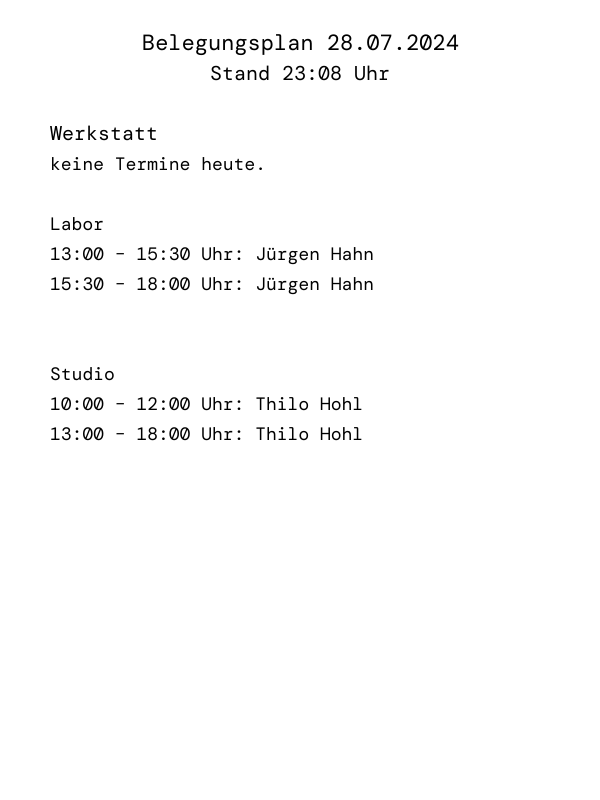
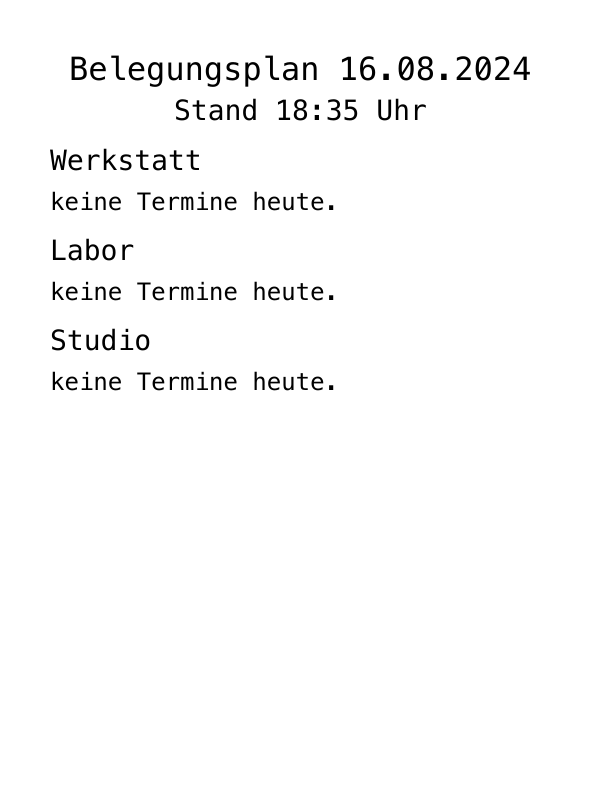
Upcoming (innerhalb 14 Tage), <wbr> Space.

diff --git a/Scripts/calendar-img.js b/Scripts/calendar-img.js
@@ -8,90 +8,98 @@ const { createCanvas, loadImage } = require('canvas');
 /*  Canvas-Setup  */
 /******************/
 
-const width     = 600;
-const height    = 800;
-const canvas    = createCanvas(width, height);
-const ctx       = canvas.getContext('2d');
+const width  = 600;
+const height = 800;
+const canvas = createCanvas(width, height);
+const ctx    = canvas.getContext('2d');
 
 const fs_larger = "32px";
 const fs_large  = "28px";
 const fs_reg    = "24px";
 const font      = 'monospace';
 const space     = 40;
-const bigSpace  = space * 2;
+const bigSpace  = 50;
 
 let yPosition;
 let currentDate;
+let upcomingString1 = '';
+let upcomingString2 = '';
 
 schedule("*/15 * * * *", function() {
-    /*******************/
-    /*  Datumsabfrage  */
-    /*******************/
+/*******************/
+/*  Datumsabfrage  */
+/*******************/
 
-    const today = new Date();
-    let day     = addZero(today.getDate());
-    let month   = addZero(today.getMonth() + 1);
-    let year    = today.getFullYear();
-    let hour    = today.getHours();
-    let minute  = today.getMinutes();
+const today = new Date();
 
-    currentDate = `${year}-${month}-${day}`;
-    // currentDate = `2024-07-31`; // Zu Testzwecken Datum im Format 'yyyy-mm-dd' überschreiben
+let upcoming = new Date(today);
+upcoming.setDate(today.getDate() + 14);
+upcoming = upcoming.toISOString().substring(0, 10);
 
-    ctx.fillStyle   = 'white';
-    ctx.fillRect(0, 0, width, height);
+let day    = addZero(today.getDate());
+let month  = addZero(today.getMonth() + 1);
+let year   = today.getFullYear();
+let hour   = today.getHours();
+let minute = today.getMinutes();
 
+currentDate = `${year}-${month}-${day}`;
+//currentDate = `2024-02-02`; // Zu Testzwecken Datum im Format 'yyyy-mm-dd' überschreiben
 
-    /*****************/
-    /*  Überschrift  */
-    /*****************/
-
-    yPosition = 80;
-
-    ctx.textAlign = 'center'
-    ctx.fillStyle = 'black';
-    ctx.font      = `${fs_larger} ${font}`
-
-    ctx.fillText(`Belegungsplan ${day}.${month}.${year}`, 300, yPosition);
-    yPosition += space;
-    ctx.font = `${fs_large} ${font}`
-    ctx.fillText(`Stand ${addZero(hour)}:${addZero(minute)} Uhr`, 300, yPosition);
-    yPosition += bigSpace;
-    ctx.textAlign = 'left'
+ctx.fillStyle = 'white';
+ctx.fillRect(0, 0, width, height);
 
 
-    /**********************/
-    /*  Kalender-Quellen  */
-    /**********************/
+/*****************/
+/*  Überschrift  */
+/*****************/
 
-    const calendarURLs = [
-        'https://tools.mi.ur.de/davical/public.php/mi-lab/VR4-Labor',
-        'https://tools.mi.ur.de/davical/public.php/mi-lab/VR4-Werkstatt',
-        'https://tools.mi.ur.de/davical/public.php/mi-lab/VR4-Studio'
-        ];
-    const names = [
-        'Labor',
-        'Werkstatt',
-        'Studio'
-        ];
+yPosition = 80;
+
+ctx.textAlign = 'center'
+ctx.fillStyle = 'black';
+ctx.font      = `${fs_larger} ${font}`
+
+ctx.fillText(`Belegungsplan ${day}.${month}.${year}`, 300, yPosition);
+yPosition += space;
+
+ctx.font = `${fs_large} ${font}`
+ctx.fillText(`Stand ${addZero(hour)}:${addZero(minute)} Uhr`, 300, yPosition);
+yPosition += bigSpace;
+
+ctx.textAlign = 'left'
 
 
-    /******************/
-    /*  Zeichen-Loop  */
-    /******************/
+/**********************/
+/*  Kalender-Quellen  */
+/**********************/
 
-    for (let i = 0;  i < calendarURLs.length; i++) {
-        fetchCalendar(calendarURLs[i])
-            .then(data => {
-                const events = readCalendar(data);
-                const organizedEvents = organizeEvents(events);
-                createCalendarImage(organizedEvents, names[i]);
-            })
-            .catch(error => {
-                console.error('Error fetching or processing calendar:', error);
-            }
-        );
-    }
+const calendarURLs = [
+    'https://tools.mi.ur.de/davical/public.php/mi-lab/VR4-Labor',
+    'https://tools.mi.ur.de/davical/public.php/mi-lab/VR4-Werkstatt',
+    'https://tools.mi.ur.de/davical/public.php/mi-lab/VR4-Studio'
+];
+const names = [
+    'Labor',
+    'Werkstatt',
+    'Studio'
+];
+
+
+/******************/
+/*  Zeichen-Loop  */
+/******************/
+
+for (let i = 0; i < calendarURLs.length; i++) {
+    fetchCalendar(calendarURLs[i])
+        .then(data => {
+            const events = readCalendar(data);
+            const organizedEvents = organizeEvents(events);
+            createCalendarImage(organizedEvents, names[i], i);
+        })
+        .catch(error => {
+            console.error('Error fetching or processing calendar:', error);
+        });
+}
 });
 
 
@@ -135,52 +143,85 @@ function organizeEvents(events) {
 function addZero(month) {
     if (month < 10) {
         return '0' + month;
-    } return month;
+    }
+    return month;
 }
 
-function createCalendarImage(events, name) {
+function createCalendarImage(events, name, iteration) {
     ctx.font = `${fs_large} ${font}`;
     ctx.fillText(name, 50, yPosition);
     yPosition += space;
 
     ctx.font = `${fs_reg} ${font}`;
-    
-    let todayIncluded = false;
 
-    for (const date of Object.keys(events).sort()) {        
-        if(date == currentDate) {
+    let todayIncluded = false;
+    let nextDateKnown = false;
+
+    for (const date of Object.keys(events).sort()) {
+        if (date == currentDate) {
             todayIncluded = true;
             events[date].sort((a, b) => a.start - b.start);
 
             if (events[date].length > 0) {
                 for (const event of events[date]) {
-                    let text = event.summary;
-                    if(text.length > 15) {
-                        let line1 = text.substring(0,15);
-                        let line2 = text.substring(15);
-                        if (line2.length > 35) {
-                            line2 = line2.substring(0,30) + "..."
-                        }
-                        let eventText = `${addZero(event.start.getHours())}:${addZero(event.start.getMinutes())}–${addZero(event.end.getHours())}:${addZero(event.end.getMinutes())} Uhr: ${line1}`;
-                        ctx.fillText(eventText, 50, yPosition);
-                        yPosition += space;
-                        ctx.fillText(line2, 50, yPosition);
-                    } else { 
-                        let eventText = `${addZero(event.start.getHours())}:${addZero(event.start.getMinutes())}–${addZero(event.end.getHours())}:${addZero(event.end.getMinutes())} Uhr: ${event.summary}`;
-                        ctx.fillText(eventText, 50, yPosition);
-                    }
-                    yPosition += space;
-                } 
+                    writeEvent(event.summary, event);
+                }
+                yPosition += bigSpace - space ;
             } else {
                 ctx.fillText("keine Termine heute.", 50, yPosition);
                 yPosition += bigSpace;
             }
+        } else if (date > currentDate && !nextDateKnown) {
+            if (date <= upcoming) {
+                upcoming = date;
+                events[date].sort((a, b) => a.start - b.start);
+                nextEvent = events[date][0];
+                upcomingString1 = "Nächste Reservierung: ";
+                upcomingString2 = name + ", " + upcoming.substring(8, 10) + '.' + upcoming.substring(5, 7) + '.' + upcoming.substring(0, 4);;
+            }
+            nextDateKnown = true;
         }
     }
 
-    todayIncluded ? null : ctx.fillText("keine Termine heute.", 50, yPosition); yPosition += bigSpace;
+    if (!todayIncluded) {
+        ctx.fillText("keine Termine heute.", 50, yPosition);
+        yPosition += bigSpace;
+    }
 
-    const buffer = canvas.toBuffer('image/png');
+    if (upcomingString1.length > 0 && iteration == 2) {
+        ctx.font = `${fs_reg} ${font}`;
+        ctx.fillText(upcomingString1, 50, yPosition);
+        yPosition += space;
+        ctx.fillText(upcomingString2, 50, yPosition);
+        yPosition += space;
+        writeEvent(nextEvent.summary, nextEvent)
+    }
+
+    buffer = canvas.toBuffer('image/png');
     writeFile('web', '/calendar1.png', buffer, function (error) { }) // ioBroker-compliant
-    // fs.writeFileSync('calendar1.png', buffer); // Zu Testzwecken lokal ausgeben lassen
+    //fs.writeFileSync('calendar1.png', buffer); // Zu Testzwecken lokal ausgeben lassen
+}
+
+function writeEvent(text, event) {
+    if (text.length > 15) {
+        if (text.includes(' ')) {
+            textarr = text.split(' ');
+            line1 = textarr[0];
+            line2 = textarr[1];
+        } else {
+            line1 = text.substring(0, 15);
+            line2 = text.substring(15);
+        }
+        if (line2.length > 35) {
+            line2 = line2.substring(0, 30) + "..."
+        }
+        let eventText = `${addZero(event.start.getHours())}:${addZero(event.start.getMinutes())}–${addZero(event.end.getHours())}:${addZero(event.end.getMinutes())} Uhr: ${line1}`;
+        ctx.fillText(eventText, 50, yPosition);
+        yPosition += space;
+        ctx.fillText(line2, 50, yPosition);
+    } else {
+        let eventText = `${addZero(event.start.getHours())}:${addZero(event.start.getMinutes())}–${addZero(event.end.getHours())}:${addZero(event.end.getMinutes())} Uhr: ${event.summary}`;
+        ctx.fillText(eventText, 50, yPosition);
+    }
+    yPosition += space;
 }
